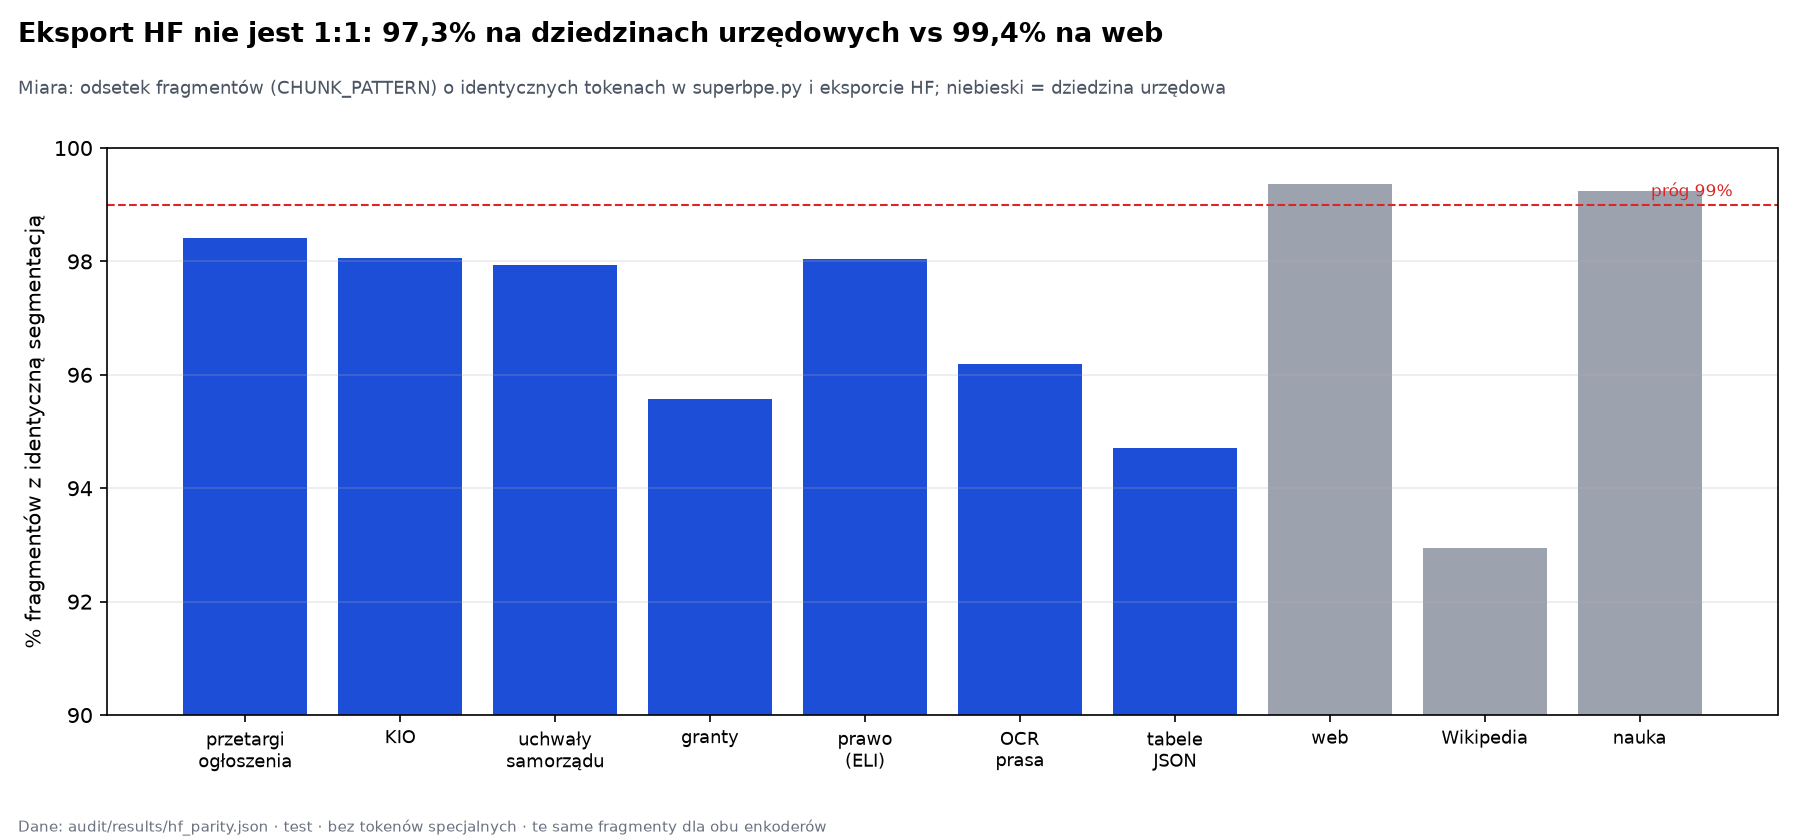
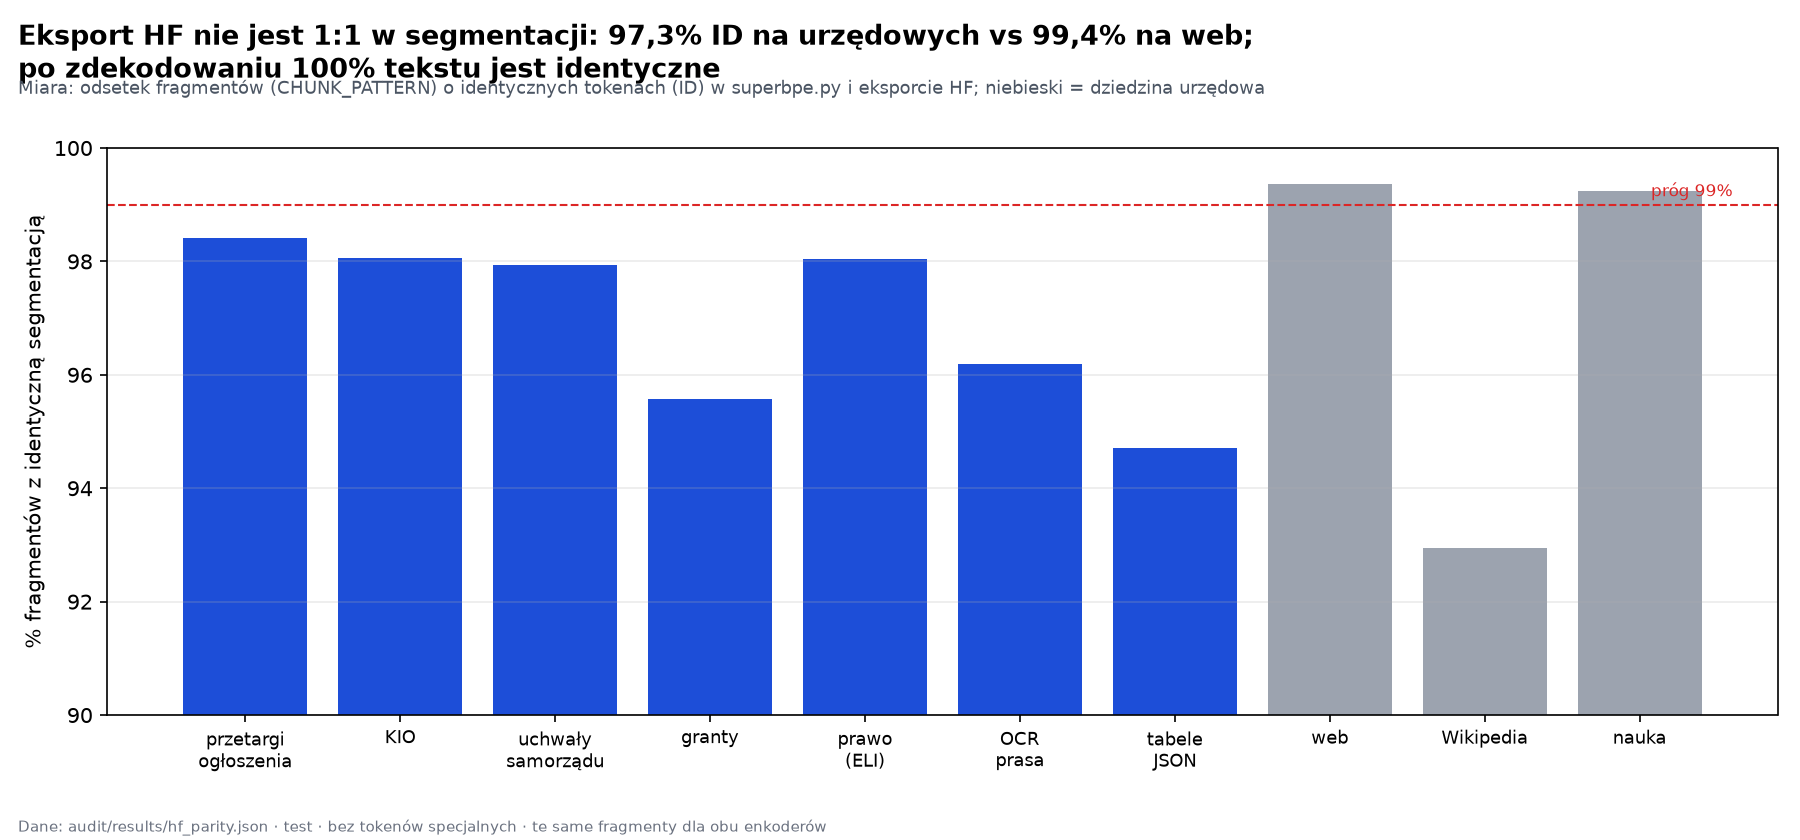
Audyt TKX-A: jeden RNG bootstrapu i parytet HF na ciagach

Changed region(s): [[0.0, 0.031, 0.7156, 0.1238]]

diff --git a/audit/hf_parity.py b/audit/hf_parity.py
@@ -43,14 +43,14 @@ def main() -> None:
     tok = load_superbpe("tokenizers/tokenizatorex-32k.json")
     hf = load_hf_file(os.path.join(REPO_ROOT, "hf/tokenizatorex-32k/tokenizer.json"))
     out = {"meta": {"chunk_pattern": "CHUNK_PATTERN z superbpe.py", "split": "test",
-                    "note": "porównanie na fragmentach; tokeny bez specjalnych"},
+                    "note": "parytet segmentacji liczony na ID (główny) i dodatkowo na zdekodowanych ciągach (kontrola utraty tekstu); tokeny bez specjalnych"},
            "domains": {}, "causes": {}, "h8": {}}
 
     for dom in DOMAINS:
         docs = load_domain(dom, "test")
         if not docs:
             continue
-        total = identical = 0
+        total = identical = identical_decoded = 0
         ours_tokens = hf_tokens = 0
         feat_diff = Counter()
         feat_same = Counter()
@@ -62,7 +62,12 @@ def main() -> None:
                 total += 1
                 ours_tokens += len(a)
                 hf_tokens += len(b)
-                same = a == b
+                same_ids = a == b
+                a_str = tok.decode(a)
+                b_str = hf.decode(b, skip_special_tokens=False)
+                same_decoded = a_str == b_str
+                identical_decoded += same_decoded
+                same = same_ids
                 identical += same
                 bucket = feat_same if same else feat_diff
                 for name, rx in FEATURES.items():
@@ -84,6 +89,8 @@ def main() -> None:
                             "lift": (p_diff / p_same) if p_same else None}
         out["domains"][dom] = {
             "chunks": total, "identical_chunks": identical,
+            "identical_chunks_decoded": identical_decoded,
+            "identical_share_decoded": (identical_decoded / total) if total else None,
             "identical_share": share,
             "identical_ci_wilson": _wilson(identical, total),
             "tokens_ours": ours_tokens, "tokens_hf": hf_tokens,
@@ -92,7 +99,7 @@ def main() -> None:
             "causes": causes, "examples": examples,
             "official": dom in OFFICIAL,
         }
-        print(f"{dom:<22} parytet {share:.4%}  dT {hf_tokens-ours_tokens:+d}")
+        print(f"{dom:<22} parytet ID {share:.4%} (ciągi {identical_decoded/total:.4%})  dT {hf_tokens-ours_tokens:+d}")
 
     out["causes"] = _global_causes(out["domains"])
     out["h8"] = _verdict(out["domains"])
@@ -149,14 +156,14 @@ def _verdict(domains: dict) -> dict:
 
 def write_md(out: dict) -> None:
     lines = ["# Parytet eksportu HF (test)", "",
-             "| dziedzina | fragmentów | identyczne | 95% CI | Δ tokenów | przyczyna #1 (lift) |",
-             "|---|---:|---:|---|---:|---|"]
+             "| dziedzina | fragmentów | identyczne (ID) | identyczne (ciągi) | 95% CI | Δ tokenów | przyczyna #1 (lift) |",
+             "|---|---:|---:|---:|---|---:|---|"]
     for d, r in out["domains"].items():
         ci = r["identical_ci_wilson"]
         top = max(r["causes"].items(), key=lambda kv: kv[1]["lift"] or 0)
         lines.append(f"| {d} | {r['chunks']:,} | {r['identical_share']:.3%} | "
-                     f"[{ci[0]:.3%}; {ci[1]:.3%}] | {r['token_delta']:+,} "
-                     f"({r['token_delta_pct']:+.3%}) | {top[0]} "
+                     f"{r['identical_share_decoded']:.3%} | [{ci[0]:.3%}; {ci[1]:.3%}] | "
+                     f"{r['token_delta']:+,} ({r['token_delta_pct']:+.3%}) | {top[0]} "
                      f"({top[1]['lift']:.2f}×) |")
     lines += ["", "## Werdykt H8", ""]
     h = out["h8"]

diff --git a/audit/common.py b/audit/common.py
@@ -276,51 +276,44 @@ def tokenizer_manifest() -> list[dict]:
 
 # --- statystyka -------------------------------------------------------------
 
+def bootstrap_indices(k: int, n: int = BOOTSTRAP_N, seed: int = SEED):
+    """Jeden generator losowy dla całego audytu (NumPy PCG64)."""
+    import numpy as np
+    return np.random.default_rng(seed).integers(0, k, size=(n, k))
+
+
 def bootstrap_ci(values: list[float], n: int = BOOTSTRAP_N, seed: int = SEED,
                  alpha: float = 0.05) -> tuple[float, float, float]:
-    """Średnia i 95% CI z bootstrapu (po dokumentach)."""
-    import random
+    """Średnia i 95% CI z bootstrapu po dokumentach (NumPy, jeden RNG)."""
+    import numpy as np
     if not values:
         return (float("nan"), float("nan"), float("nan"))
-    rng = random.Random(seed)
-    k = len(values)
-    means = []
-    for _ in range(n):
-        s = 0.0
-        for _ in range(k):
-            s += values[rng.randrange(k)]
-        means.append(s / k)
-    means.sort()
-    lo = means[int((alpha / 2) * n)]
-    hi = means[min(n - 1, int((1 - alpha / 2) * n))]
-    return sum(values) / k, lo, hi
+    a = np.asarray(values, dtype=float)
+    idx = bootstrap_indices(len(a), n, seed)
+    means = a[idx].mean(axis=1)
+    lo = float(np.percentile(means, 100 * alpha / 2))
+    hi = float(np.percentile(means, 100 * (1 - alpha / 2)))
+    return float(a.mean()), lo, hi
 
 
 def bootstrap_paired_ratio(num_a: list[float], num_b: list[float], denom: list[float],
                            n: int = BOOTSTRAP_N, seed: int = SEED,
                            alpha: float = 0.05) -> dict:
-    """Bootstrap parowany: stosunek sum tokenów (A/B) przy tych samych dokumentach."""
-    import random
+    """Bootstrap parowany różnicy tokenów na słowo (NumPy, jeden RNG)."""
+    import numpy as np
     assert len(num_a) == len(num_b) == len(denom)
-    rng = random.Random(seed)
-    k = len(num_a)
-    ratios = []
-    for _ in range(n):
-        ta = tb = dw = 0.0
-        for _ in range(k):
-            i = rng.randrange(k)
-            ta += num_a[i]
-            tb += num_b[i]
-            dw += denom[i]
-        if tb:
-            ratios.append((ta - tb) / dw)  # różnica tokenów na słowo
-    ratios.sort()
-    lo = ratios[int((alpha / 2) * n)]
-    hi = ratios[min(n - 1, int((1 - alpha / 2) * n))]
-    obs = (sum(num_a) - sum(num_b)) / sum(denom) if sum(denom) else float("nan")
+    a = np.asarray(num_a, dtype=float)
+    b = np.asarray(num_b, dtype=float)
+    w = np.asarray(denom, dtype=float)
+    idx = bootstrap_indices(len(a), n, seed)
+    den = w[idx].sum(axis=1)
+    ratios = (a[idx] - b[idx]).sum(axis=1) / den
+    lo = float(np.percentile(ratios, 100 * alpha / 2))
+    hi = float(np.percentile(ratios, 100 * (1 - alpha / 2)))
+    obs = float((a.sum() - b.sum()) / w.sum()) if w.sum() else float("nan")
     return {"diff_per_word": obs, "ci_lo": lo, "ci_hi": hi,
             "significant": lo > 0 or hi < 0,
-            "practical": abs(obs) >= 0.01 * (sum(num_b) / sum(denom)) if sum(denom) else False}
+            "practical": abs(obs) >= 0.01 * (b.sum() / w.sum()) if w.sum() else False}
 
 
 def percentile(values: list[float], q: float) -> float:

diff --git a/audit/fertility.py b/audit/fertility.py
@@ -10,7 +10,7 @@ import sys
 import numpy as np
 
 sys.path.append(os.path.dirname(os.path.abspath(__file__)))
-from common import (BOOTSTRAP_N, RESULTS_DIR, SEED, build_encoders, load_domain,
+from common import (BOOTSTRAP_N, RESULTS_DIR, SEED, bootstrap_indices, build_encoders, load_domain,
                     write_json)
 
 DOMAINS = ["przetargi_ogloszenia", "przetargi_kio", "samorzad_uchwaly",
@@ -21,8 +21,7 @@ REFERENCE = "TOKENIZATOREX"
 
 
 def _boot_idx(k: int, n: int = BOOTSTRAP_N, seed: int = SEED) -> np.ndarray:
-    rng = np.random.default_rng(seed)
-    return rng.integers(0, k, size=(n, k))
+    return bootstrap_indices(k, n, seed)
 
 
 def _ci_from_replicates(rep: np.ndarray) -> list[float]:

diff --git a/audit/results/hf_parity.md b/audit/results/hf_parity.md
@@ -1,22 +1,22 @@
 # Parytet eksportu HF (test)
 
-| dziedzina | fragmentów | identyczne | 95% CI | Δ tokenów | przyczyna #1 (lift) |
-|---|---:|---:|---|---:|---|
-| przetargi_ogloszenia | 48,145 | 98.411% | [98.295%; 98.519%] | -381 (-0.180%) | 4+_cyfry (54.12×) |
-| przetargi_kio | 13,485 | 98.065% | [97.818%; 98.284%] | +55 (+0.041%) | ukosnik (16.40×) |
-| samorzad_uchwaly | 23,938 | 97.945% | [97.757%; 98.117%] | -339 (-0.309%) | 4+_cyfry (8.43×) |
-| granty_ogloszenia | 33,726 | 95.567% | [95.342%; 95.782%] | -726 (-0.403%) | 4+_cyfry (24.00×) |
-| prawo_eli | 40,138 | 98.049% | [97.909%; 98.180%] | -479 (-0.234%) | 4+_cyfry (17.83×) |
-| ocr_prasa | 9,942 | 96.188% | [95.793%; 96.547%] | -60 (-0.034%) | 4+_cyfry (156.53×) |
-| tabele_json | 17,574 | 94.702% | [94.361%; 95.024%] | -723 (-0.522%) | 4+_cyfry (21.93×) |
-| web | 20,344 | 99.361% | [99.242%; 99.462%] | -34 (-0.015%) | 4+_cyfry (35.82×) |
-| wikipedia | 23,172 | 92.944% | [92.607%; 93.267%] | -375 (-0.146%) | 4+_cyfry (14.57×) |
-| literatura | 32,479 | 99.741% | [99.680%; 99.791%] | -53 (-0.019%) | 4+_cyfry (1619.75×) |
-| prawo | 75,300 | 98.205% | [98.107%; 98.297%] | -929 (-0.337%) | 4+_cyfry (27.68×) |
-| sejm | 30,212 | 99.477% | [99.389%; 99.552%] | -63 (-0.031%) | 4+_cyfry (65.33×) |
-| nauka | 65,407 | 99.237% | [99.167%; 99.301%] | -144 (-0.046%) | 4+_cyfry (45.68×) |
-| dyskusje | 26,038 | 98.302% | [98.138%; 98.452%] | -82 (-0.031%) | 4+_cyfry (10.76×) |
-| angielski | 7,456 | 94.930% | [94.409%; 95.405%] | -125 (-0.046%) | 4+_cyfry (12.20×) |
+| dziedzina | fragmentów | identyczne (ID) | identyczne (ciągi) | 95% CI | Δ tokenów | przyczyna #1 (lift) |
+|---|---:|---:|---:|---|---:|---|
+| przetargi_ogloszenia | 48,145 | 98.411% | 100.000% | [98.295%; 98.519%] | -381 (-0.180%) | 4+_cyfry (54.12×) |
+| przetargi_kio | 13,485 | 98.065% | 100.000% | [97.818%; 98.284%] | +55 (+0.041%) | ukosnik (16.40×) |
+| samorzad_uchwaly | 23,938 | 97.945% | 100.000% | [97.757%; 98.117%] | -339 (-0.309%) | 4+_cyfry (8.43×) |
+| granty_ogloszenia | 33,726 | 95.567% | 100.000% | [95.342%; 95.782%] | -726 (-0.403%) | 4+_cyfry (24.00×) |
+| prawo_eli | 40,138 | 98.049% | 100.000% | [97.909%; 98.180%] | -479 (-0.234%) | 4+_cyfry (17.83×) |
+| ocr_prasa | 9,942 | 96.188% | 100.000% | [95.793%; 96.547%] | -60 (-0.034%) | 4+_cyfry (156.53×) |
+| tabele_json | 17,574 | 94.702% | 100.000% | [94.361%; 95.024%] | -723 (-0.522%) | 4+_cyfry (21.93×) |
+| web | 20,344 | 99.361% | 100.000% | [99.242%; 99.462%] | -34 (-0.015%) | 4+_cyfry (35.82×) |
+| wikipedia | 23,172 | 92.944% | 100.000% | [92.607%; 93.267%] | -375 (-0.146%) | 4+_cyfry (14.57×) |
+| literatura | 32,479 | 99.741% | 100.000% | [99.680%; 99.791%] | -53 (-0.019%) | 4+_cyfry (1619.75×) |
+| prawo | 75,300 | 98.205% | 100.000% | [98.107%; 98.297%] | -929 (-0.337%) | 4+_cyfry (27.68×) |
+| sejm | 30,212 | 99.477% | 100.000% | [99.389%; 99.552%] | -63 (-0.031%) | 4+_cyfry (65.33×) |
+| nauka | 65,407 | 99.237% | 100.000% | [99.167%; 99.301%] | -144 (-0.046%) | 4+_cyfry (45.68×) |
+| dyskusje | 26,038 | 98.302% | 100.000% | [98.138%; 98.452%] | -82 (-0.031%) | 4+_cyfry (10.76×) |
+| angielski | 7,456 | 94.930% | 100.000% | [94.409%; 95.405%] | -125 (-0.046%) | 4+_cyfry (12.20×) |
 
 ## Werdykt H8
 
